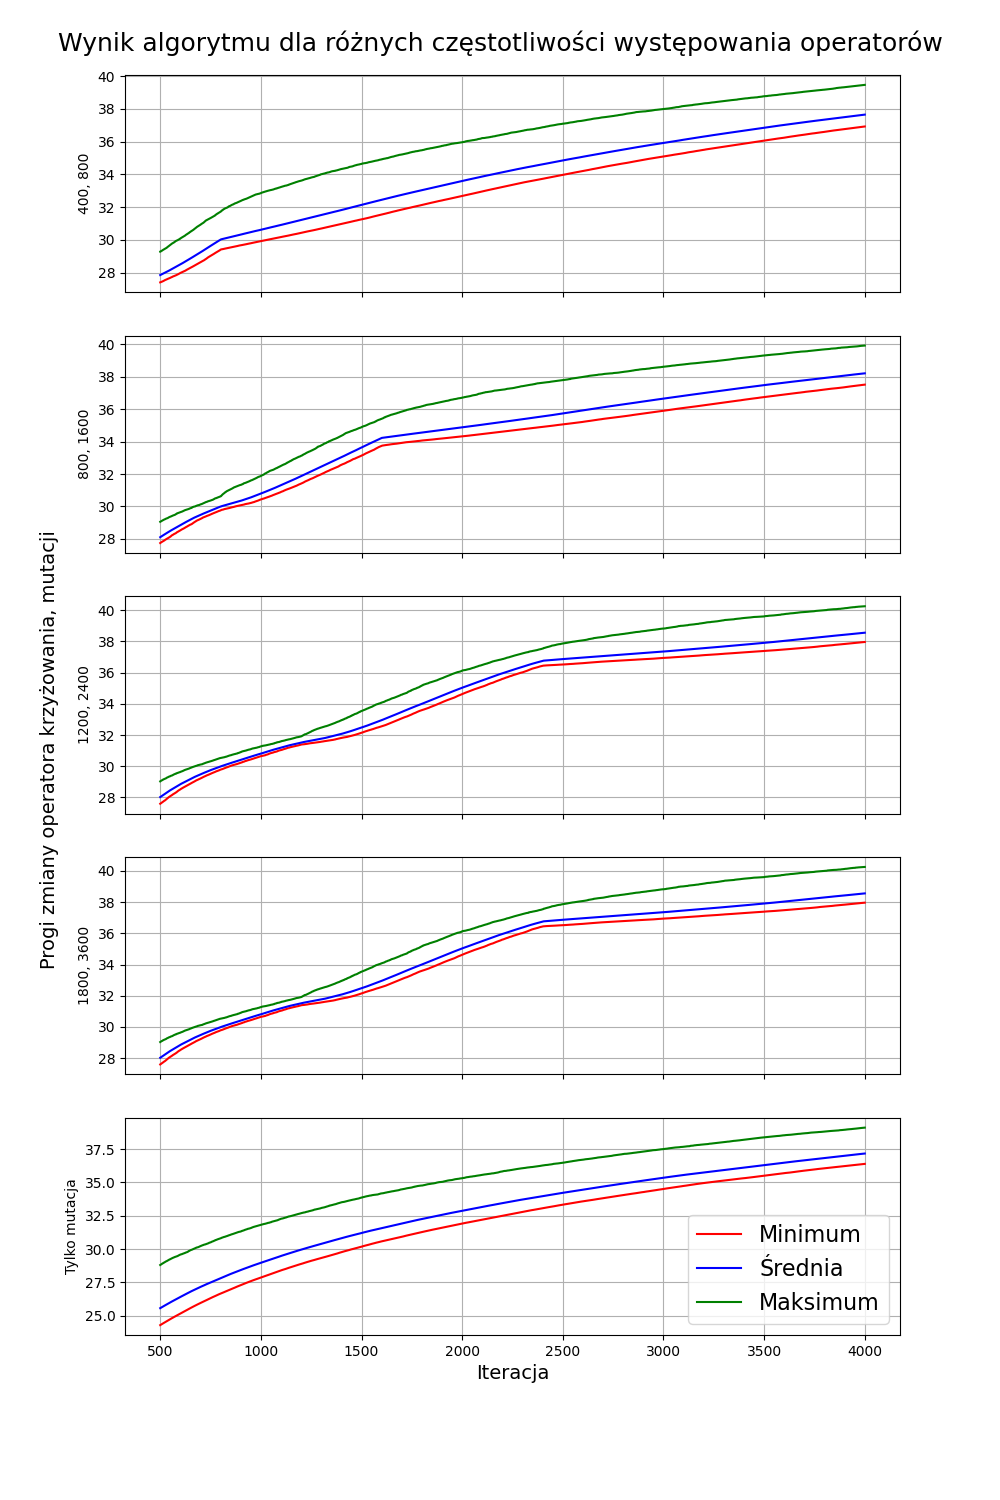
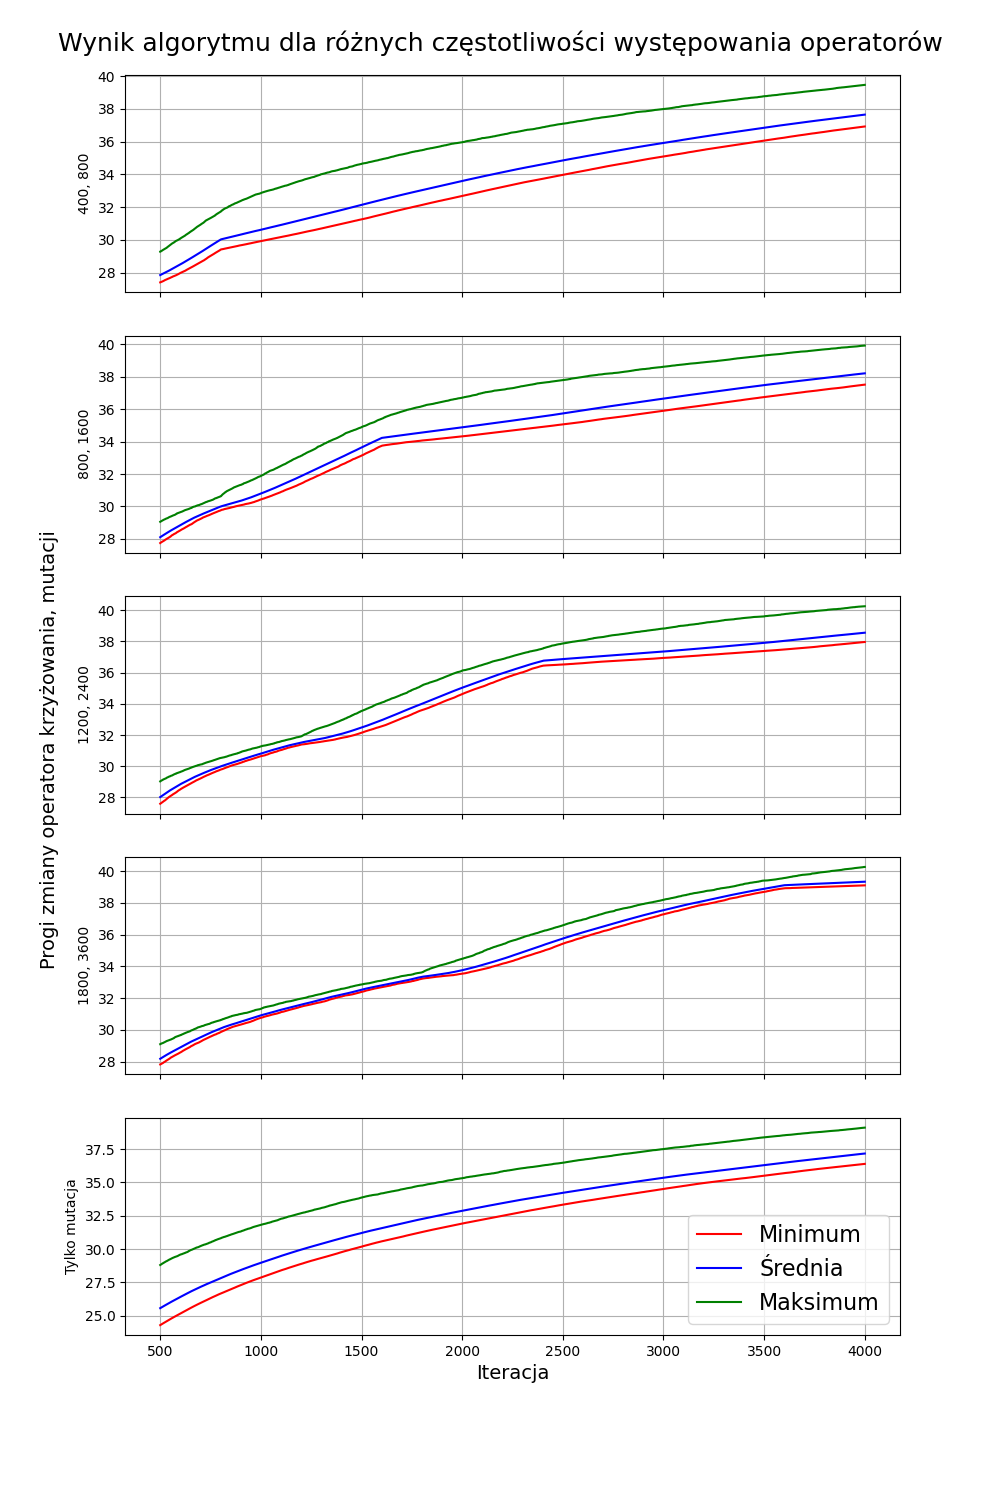
the end is near

Changed region(s): [[0.155, 0.5827, 0.868, 0.7053], [0.093, 0.6133, 0.124, 0.7053]]

diff --git a/data_analysis.py b/data_analysis.py
@@ -85,7 +85,7 @@ def second_test():
 
 
 # Histogram, three objective functions in terms of population size (25, 50, 75, 100)
-def third_test():
+def third_test_hist():
     df25 = pd.read_excel("Dat/RawData_popsize25.xlsx", index_col=0)
     df50 = pd.read_excel("Dat/RawData_popsize50.xlsx", index_col=0)
     df75 = pd.read_excel("Dat/RawData_popsize75.xlsx", index_col=0)
@@ -124,41 +124,92 @@ def third_test():
     return fig1
 
 
-# does not work
-def third_test_vel2():
-    df25 = pd.read_excel("Dat/RawData_pop25.xlsx", index_col=0)
-    df50 = pd.read_excel("Dat/RawData_pop50.xlsx", index_col=0)
-    df75 = pd.read_excel("Dat/RawData_pop75.xlsx", index_col=0)
-    df100 = pd.read_excel("Dat/RawData_pop_100.xlsx", index_col=0)
+# Plot no first 500
+def third_test_plot():
+    data1020 = pd.read_excel("Dat/RawData_popsize_2_25.xlsx", index_col=0)
+    data2040 = pd.read_excel("Dat/RawData_popsize_2_50.xlsx", index_col=0)
+    data3060 = pd.read_excel("Dat/RawData_popsize_2_75.xlsx", index_col=0)
+    data4590 = pd.read_excel("Dat/RawData_popsize_2_100.xlsx", index_col=0)
 
-    fig, axs = plt.subplots(4, 1, figsize=(10, 12), sharey='row')
-    fig.suptitle("Zachowanie się granicznych i średniego rozwiązania dla różnych populacji", fontsize=16)
-    fig.text(0.02, 0.5, "Funkcja celu [PLN/h]", va='center', rotation='vertical', fontsize=12)
+    fig, axs = plt.subplots(4, 1, figsize=(10, 15), sharex='col')
+    fig.suptitle("Wynik algorytmu dla różnych rozmiarów populacji", fontsize=18)
+    fig.text(0.04, 0.5, 'Rozmiar populacji', va='center', rotation='vertical', fontsize=14)
+    fig.subplots_adjust(top=0.95)
 
-    axs[0].plot(df25.iloc[5:]["Minimum Fun"], color="red", label="Minimum")
-    axs[0].plot(df25["Average Fun"], color="blue", label="Średnia")
-    axs[0].plot(df25["Maximum Fun"], color='green', label="Maksimum")
+    axs[0].plot(data1020.iloc[500:]["Minimum Fun"], color="red", label="Minimum")
+    axs[0].plot(data1020.iloc[500:]["Average Fun"], color="blue", label="Średnia")
+    axs[0].plot(data1020.iloc[500:]["Maximum Fun"], color='green', label="Maksimum")
     axs[0].set_ylabel("25")
-
-    axs[1].plot(df50.iloc[10:]["Minimum Fun"], color="red", label="Minimum")
-    axs[1].plot(df50["Average Fun"], color="blue", label="Średnia")
-    axs[1].plot(df50["Maximum Fun"], color='green', label="Maksimum")
+    axs[0].set_ylim([21, 42])
+    axs[0].grid()
+    axs[1].plot(data2040.iloc[500:]["Minimum Fun"], color="red", label="Minimum")
+    axs[1].plot(data2040.iloc[500:]["Average Fun"], color="blue", label="Średnia")
+    axs[1].plot(data2040.iloc[500:]["Maximum Fun"], color='green', label="Maksimum")
     axs[1].set_ylabel("50")
-
-    axs[2].plot(df75.iloc[25:]["Minimum Fun"], color="red", label="Minimum")
-    axs[2].plot(df75["Average Fun"], color="blue", label="Średnia")
-    axs[2].plot(df75["Maximum Fun"], color='green', label="Maksimum")
+    axs[1].set_ylim([21, 42])
+    axs[1].grid()
+    axs[2].plot(data3060.iloc[500:]["Minimum Fun"], color="red", label="Minimum")
+    axs[2].plot(data3060.iloc[500:]["Average Fun"], color="blue", label="Średnia")
+    axs[2].plot(data3060.iloc[500:]["Maximum Fun"], color='green', label="Maksimum")
     axs[2].set_ylabel("75")
-
-    axs[3].plot(df100.iloc[28:]["Minimum Fun"], color="red", label="Minimum")
-    axs[3].plot(df100["Average Fun"], color="blue", label="Średnia")
-    axs[3].plot(df100["Maximum Fun"], color='green', label="Maksimum")
-    axs[3].set_xlabel("Iteracja", fontsize=12)
+    axs[2].set_ylim([21, 42])
+    axs[2].grid()
+    axs[3].plot(data4590.iloc[500:]["Minimum Fun"], color="red", label="Minimum")
+    axs[3].plot(data4590.iloc[500:]["Average Fun"], color="blue", label="Średnia")
+    axs[3].plot(data4590.iloc[500:]["Maximum Fun"], color='green', label="Maksimum")
     axs[3].set_ylabel("100")
-
+    axs[3].grid()
+    axs[3].set_ylim([21, 42])
+    axs[3].set_xlabel("Iteracja", fontsize=14)
     plt.legend(fontsize=16)
-    plt.savefig("Plots & Charts/populacja jedna iteracja.png")
+
+    plt.savefig("Plots & Charts/populacja wykres bez pierwszych 500.png")
     plt.show()
+
+    return fig
+
+
+def third_test_plot_vel_2():
+    data1020 = pd.read_excel("Dat/RawData_popsize_2_25.xlsx", index_col=0)
+    data2040 = pd.read_excel("Dat/RawData_popsize_2_50.xlsx", index_col=0)
+    data3060 = pd.read_excel("Dat/RawData_popsize_2_75.xlsx", index_col=0)
+    data4590 = pd.read_excel("Dat/RawData_popsize_2_100.xlsx", index_col=0)
+
+    fig, axs = plt.subplots(4, 1, figsize=(10, 15), sharex='col')
+    fig.suptitle("Wynik algorytmu dla różnych rozmiarów populacji", fontsize=18)
+    fig.text(0.04, 0.5, 'Rozmiar populacji', va='center', rotation='vertical', fontsize=14)
+    fig.subplots_adjust(top=0.95)
+
+    axs[0].plot(data1020["Minimum Fun"], color="red", label="Minimum")
+    axs[0].plot(data1020["Average Fun"], color="blue", label="Średnia")
+    axs[0].plot(data1020["Maximum Fun"], color='green', label="Maksimum")
+    axs[0].set_ylabel("25")
+    axs[0].set_ylim([0, 44])
+    axs[0].grid()
+    axs[1].plot(data2040["Minimum Fun"], color="red", label="Minimum")
+    axs[1].plot(data2040["Average Fun"], color="blue", label="Średnia")
+    axs[1].plot(data2040["Maximum Fun"], color='green', label="Maksimum")
+    axs[1].set_ylabel("50")
+    axs[1].set_ylim([0, 44])
+    axs[1].grid()
+    axs[2].plot(data3060["Minimum Fun"], color="red", label="Minimum")
+    axs[2].plot(data3060["Average Fun"], color="blue", label="Średnia")
+    axs[2].plot(data3060["Maximum Fun"], color='green', label="Maksimum")
+    axs[2].set_ylabel("75")
+    axs[2].set_ylim([0, 44])
+    axs[2].grid()
+    axs[3].plot(data4590["Minimum Fun"], color="red", label="Minimum")
+    axs[3].plot(data4590["Average Fun"], color="blue", label="Średnia")
+    axs[3].plot(data4590["Maximum Fun"], color='green', label="Maksimum")
+    axs[3].set_ylabel("100")
+    axs[3].grid()
+    axs[3].set_ylim([0, 44])
+    axs[3].set_xlabel("Iteracja", fontsize=14)
+    plt.legend(fontsize=16)
+
+    plt.savefig("Plots & Charts/populacja wykres.png")
+    plt.show()
+
     return fig
 
 
@@ -167,7 +218,7 @@ def fourth_test():
     data1020 = pd.read_excel("Dat/RawData_prob1020.xlsx", index_col=0)
     data2040 = pd.read_excel("Dat/RawData_prob2040.xlsx", index_col=0)
     data3060 = pd.read_excel("Dat/RawData_prob3060.xlsx", index_col=0)
-    data4590 = pd.read_excel("Dat/RawData_prob3060.xlsx", index_col=0)
+    data4590 = pd.read_excel("Dat/RawData_prob4590.xlsx", index_col=0)
     data00 = pd.read_excel("Dat/RawData_prob00.xlsx", index_col=0)
 
     fig, axs = plt.subplots(5, 1, figsize=(10, 15), sharex='col')
@@ -215,7 +266,7 @@ def fourth_test_vel2():
     data1020 = pd.read_excel("Dat/RawData_prob1020.xlsx", index_col=0)
     data2040 = pd.read_excel("Dat/RawData_prob2040.xlsx", index_col=0)
     data3060 = pd.read_excel("Dat/RawData_prob3060.xlsx", index_col=0)
-    data4590 = pd.read_excel("Dat/RawData_prob3060.xlsx", index_col=0)
+    data4590 = pd.read_excel("Dat/RawData_prob4590.xlsx", index_col=0)
     data00 = pd.read_excel("Dat/RawData_prob00.xlsx", index_col=0)
 
     fig, axs = plt.subplots(5, 1, figsize=(10, 15), sharex='col')
@@ -291,5 +342,25 @@ def controversial_test():
     return fig
 
 
-aa = fourth_test()
-a = fourth_test_vel2()
+def optimized_performance():
+    data1020 = pd.read_excel("Dat/RawData_final_chyba.xlsx", index_col=0)
+
+    fig, axs = plt.subplots(1, 1, figsize=(8, 6), sharex='col')
+    fig.suptitle("Wynik algorytmu dla optymlanych parametrów", fontsize=18)
+
+    axs.plot(data1020.iloc[500:]["Minimum Fun"], color="red", label="Minimum")
+    axs.plot(data1020.iloc[500:]["Average Fun"], color="blue", label="Średnia")
+    axs.plot(data1020.iloc[500:]["Maximum Fun"], color='green', label="Maksimum")
+    axs.set_ylabel("Funkcja celu [PLN/h]")
+    axs.set_ylim([27, 44])
+    axs.grid()
+
+    plt.legend(fontsize=16)
+
+    plt.savefig("Plots & Charts/optymalność.png")
+    plt.show()
+
+    return fig
+
+
+a = optimized_performance()
